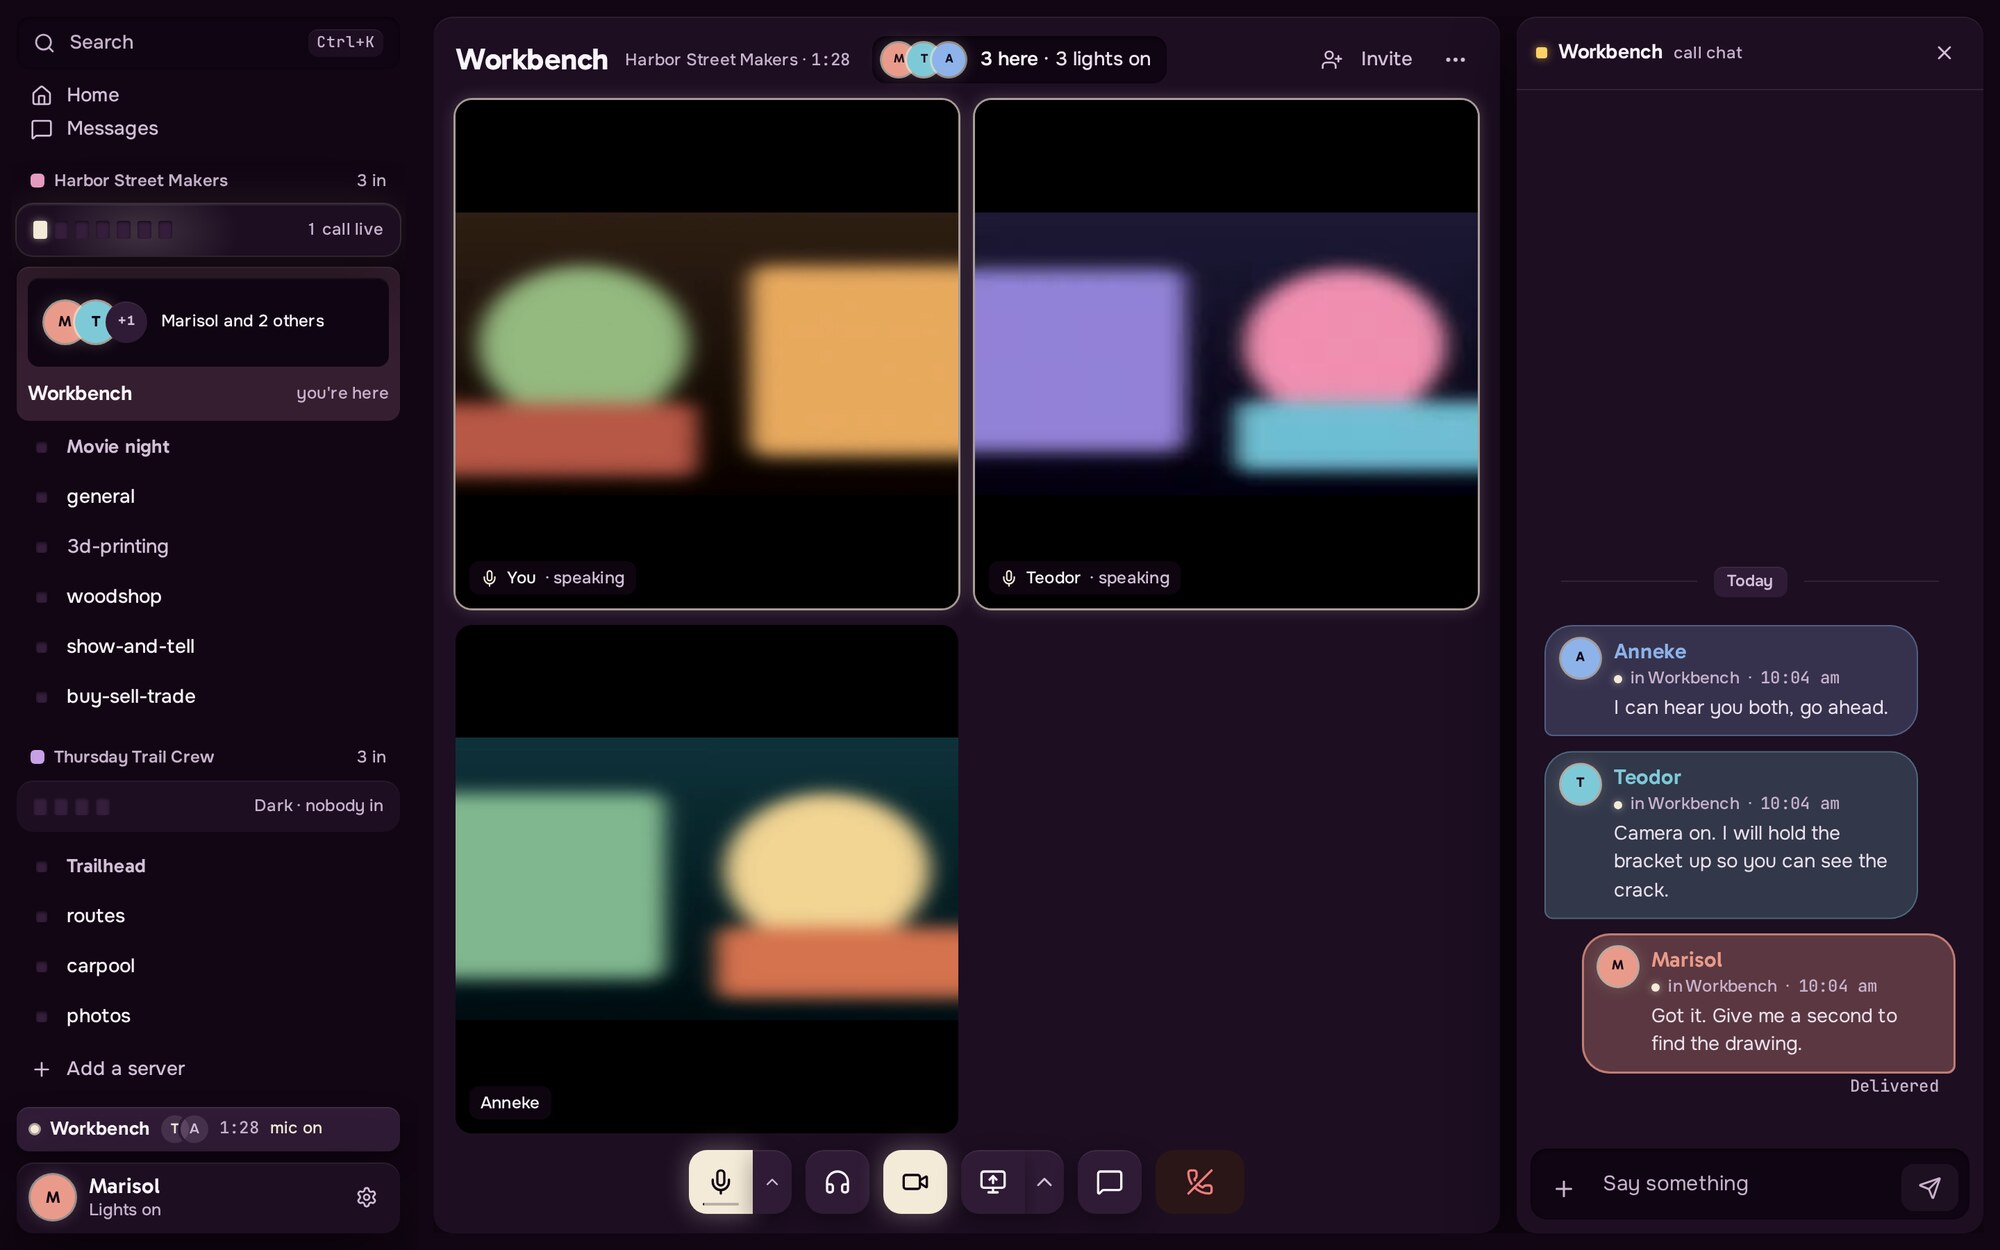
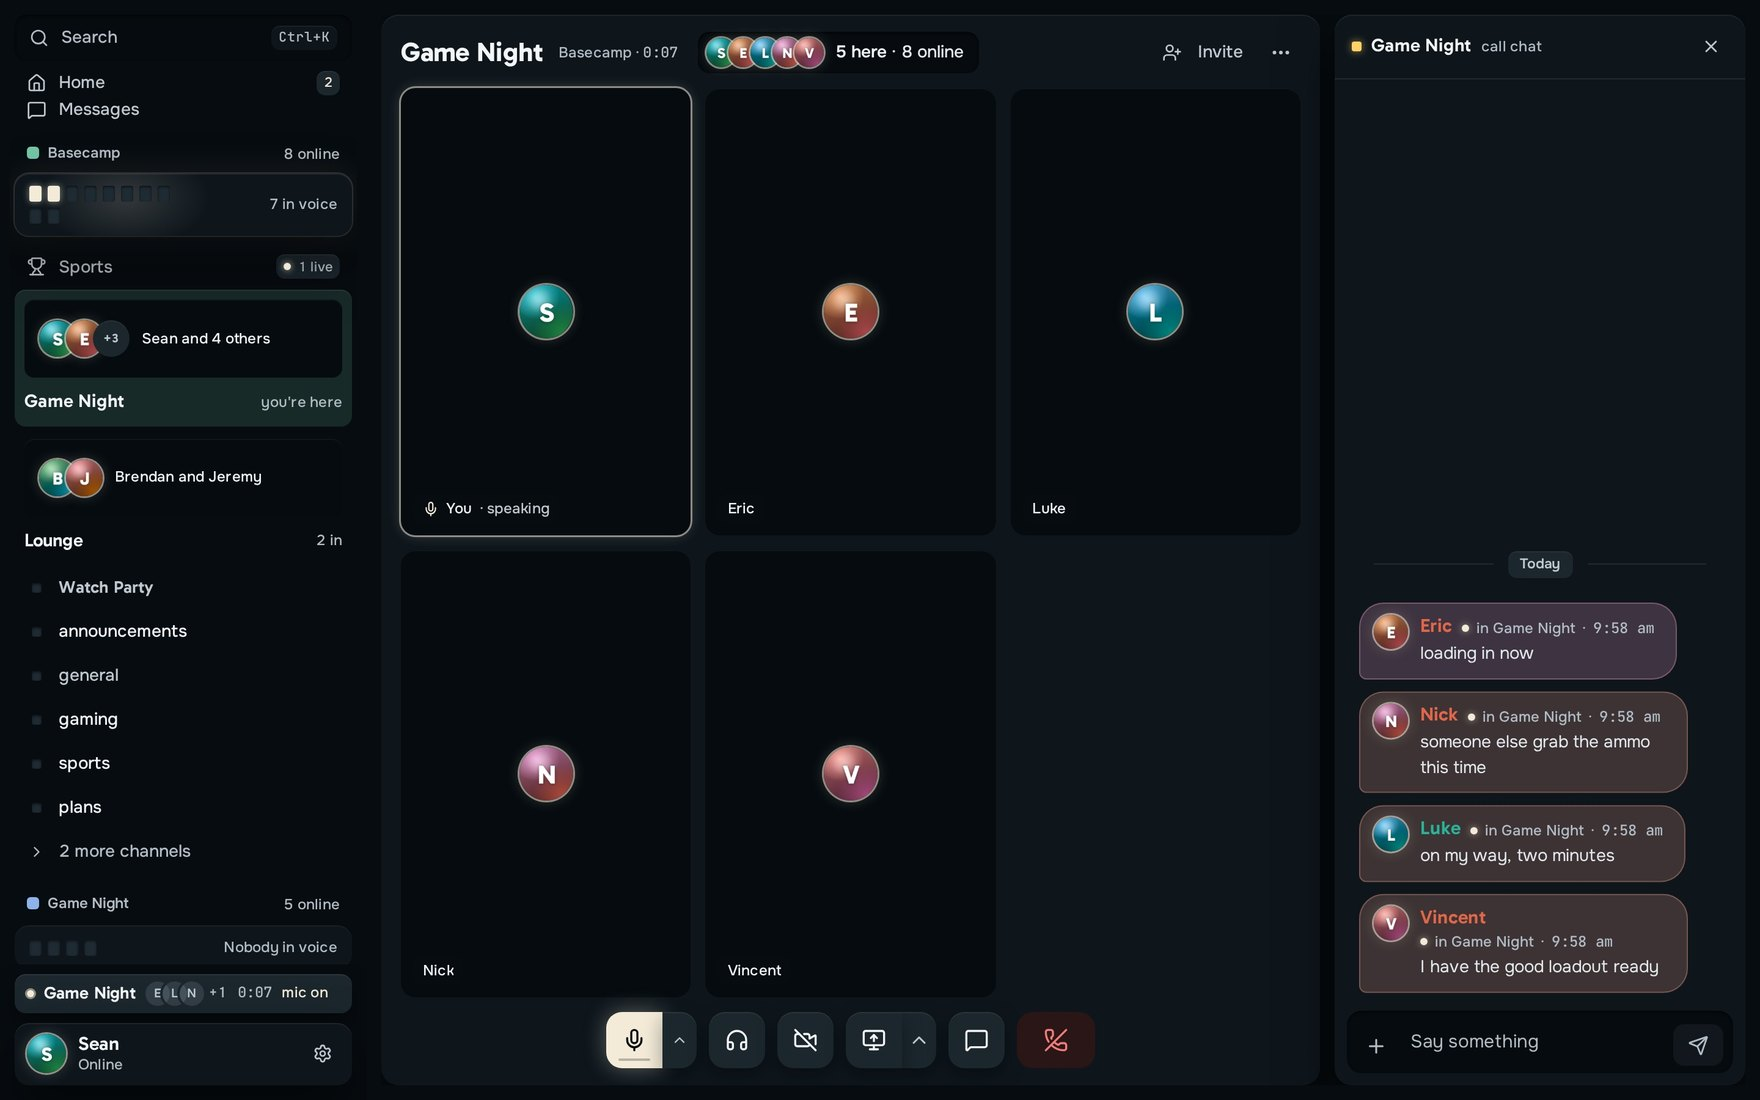
docs(readme): rewritten around the new server home, with fresh screenshots and the animated mark
Every screenshot is new, taken from the real app on a server of eight friends:
the front page, a channel, Home, a call, Sports, search, who reacted, media, both
phone views, three looks, and the setup, invite and join screens. The top image
is the lantern mark lighting up. The feature list covers what 3.2 adds, and the
'looks empty when quiet' caveat is gone.

diff --git a/README.md b/README.md
@@ -1,5 +1,5 @@
 <p align="center">
-  <img src="docs/images/brand/banner.png" alt="Paracord: a lantern on a braided cord, and the name" width="760"/>
+  <img src="docs/images/brand/paracord.webp" alt="The Paracord mark: a lantern on a braided cord handle lights up above the name Paracord" width="520"/>
 </p>
 
 <p align="center">
@@ -7,14 +7,15 @@
 </p>
 
 <p align="center">
-  <a href="../../releases/latest"><img src="https://img.shields.io/github/v/release/Scdouglas1999/Paracord?label=release&color=24b78b" alt="Latest release"/></a>
-  <img src="https://img.shields.io/badge/desktop-Windows%20%7C%20Linux%20%7C%20macOS-17221b" alt="Desktop app for Windows, Linux and macOS"/>
-  <a href="LICENSE"><img src="https://img.shields.io/badge/license-source--available-315f4b" alt="Source-available license"/></a>
+  <a href="../../releases/latest"><img src="https://img.shields.io/github/v/release/Scdouglas1999/Paracord?label=release&color=2bb39a" alt="Latest release"/></a>
+  <img src="https://img.shields.io/badge/desktop-Windows%20%7C%20Linux%20%7C%20macOS-1b232b" alt="Desktop app for Windows, Linux and macOS"/>
+  <a href="LICENSE"><img src="https://img.shields.io/badge/license-source--available-2f3b46" alt="Source-available license"/></a>
 </p>
 
 <p align="center">
   <a href="../../releases/latest">Download</a> ·
   <a href="#getting-started">Getting started</a> ·
+  <a href="#a-look-around">A look around</a> ·
   <a href="#whats-in-it">What's in it</a> ·
   <a href="#running-it">Running it</a> ·
   <a href="#development">Development</a> ·
@@ -22,32 +23,29 @@
 </p>
 
 <p align="center">
-  Current release: <strong>v3.1.1</strong> — <a href="RELEASE_NOTES.md">what changed</a>
+  Current release: <strong>v3.1.1</strong> — <a href="RELEASE_NOTES.md">what changed</a>.
+  The screenshots below are from <strong>3.2</strong>, which is in final testing and out soon.
 </p>
 
 ---
 
-![A text channel with several people talking. Each message sits in a bubble tinted with its author's colour, and your own messages are on the right.](docs/images/readme/hero.jpg)
+![Basecamp's front page: a banner of mountains at dusk, the server's name, eight people online, a Live now row with two voice channels and a baseball game, a column of upcoming events and recent photos, and a feed of what people shared.](docs/images/readme/server.jpg)
 
-Paracord looks and works about how you'd expect from Discord: servers, text channels,
-voice channels, direct messages, roles, moderation. The difference is that there is no
-company in the middle. Somebody in your group runs the Paracord server on a computer
-that stays on, and everyone else joins it with a link.
+Paracord works about how you'd expect from Discord: servers, text and voice channels,
+direct messages, roles, moderation. The difference is that there's no company in the
+middle. Somebody in your group runs the Paracord server on a computer that stays on, and
+everyone else joins with a link.
 
 Setting that up is one command. It downloads Paracord, sets it to start by itself, asks
-your router to let people in, and opens a link in your browser where you make your
-account and name your server. Friends open an invite link in any browser, or install the
-desktop app for Windows, Linux or macOS.
+your router to let people in, and opens a link in your browser where you make your account
+and name your server. Friends open an invite link in any browser, or install the desktop
+app for Windows, Linux or macOS.
 
-Inside a server you get text channels with replies, threads, reactions, polls,
-attachments and code that arrives readable, plus voice channels with video and screen
-sharing. Direct messages and group messages are encrypted end to end. There are roles and
-permissions, automatic moderation, bots and webhooks, and an optional link between two
-Paracord servers so their members can talk. The voice and video are Paracord's own code,
-so there is no third-party media service to sign up for.
+Direct messages and group messages are encrypted end to end. Voice and video run on
+Paracord's own code, so there's no third-party media service to sign up for.
 
 It suits a group that has somebody willing to keep a machine on and read a docs page when
-something breaks. Nobody is hosting this for you, and it is a young project, so the
+something breaks. Nobody is hosting this for you, and it's a young project, so the
 [things that don't work yet](#good-to-know) are worth reading before you move a community
 onto it.
 
@@ -162,35 +160,52 @@ a domain name, PostgreSQL and backups see [Deployment](docs/deployment.md).
 
 ## A look around
 
-| | |
-| :--- | :--- |
-| ![Home, showing who is online, the servers you belong to, and the conversation you were last in.](docs/images/readme/home.jpg) | ![A server's front page, listing its voice channels with the people currently in them, and its text channels below.](docs/images/readme/server.jpg) |
-| Home opens on people and conversations: who's around, your servers, and where you left off. | A server's front page. Voice channels show who is in them before you join. |
+Every picture here is the real app, running on a server with eight friends in it.
+
+**A server's front page.** Walk into a server and see who's in voice, what's coming up,
+and what people have been sharing: photos, polls you can vote in right there, new forum
+questions, the latest announcement. When it's quiet, the page is still full of what
+people made, not a list of empty channels.
 
 | | |
 | :--- | :--- |
-| ![A voice call with three video tiles, a row of controls for microphone, camera and screen sharing, and the call's chat at the side.](docs/images/readme/call.jpg) | ![An encrypted group conversation, with a note in the header saying the messages are end-to-end encrypted.](docs/images/readme/dm.jpg) |
-| A call with three people on camera. The pictures in the tiles are test patterns, not webcams; the call itself is real. | Direct messages and group messages are encrypted end to end, attachments included. |
+| ![A photos channel. Each message sits in a bubble tinted with its author's colour, with a campfire photo and a desk setup.](docs/images/readme/hero.jpg) | ![Home: a greeting, who is around, your three servers with who is in voice, and the conversations you were last in.](docs/images/readme/home.jpg) |
+| Every message wears its author's colour. | Home: who's around, your servers, and where you left off. |
+| ![A voice call with five people. One tile is outlined because that person is talking, and the call's own chat runs down the side.](docs/images/readme/call.jpg) | ![The Sports page for a live baseball game: the score by inning, win probability, the batter and pitcher, and the field with runners on base.](docs/images/readme/sports.jpg) |
+| Voice channels with video, screen sharing and a chat of their own. | Sports: follow a game together, live. |
 
-It works at phone width too.
+**Search a whole server.** Type `from:`, `in:`, `has:image` or `before:` and they turn into
+filters as you go. Results are grouped by channel, and Enter jumps to the message.
+
+![The search panel on the right with two filter chips, from Brendan and has image, and one result: Brendan's summit photo in the photos channel.](docs/images/readme/search.jpg)
+
+| | |
+| :--- | :--- |
+| ![Hovering a reaction on a mountain photo shows a small card listing the three people who reacted.](docs/images/readme/reactions.jpg) | ![The server's Media panel: photos from every channel, grouped by month, beside the server's front page.](docs/images/readme/media.jpg) |
+| See who reacted, and have Paracord remind you about a message later. | Every photo, file and link a server has shared, in one place. |
+
+It's built for phones too.
 
 <p align="center">
-  <img src="docs/images/readme/phone-home.jpg" alt="Home on a phone-width screen, listing people and servers in a single column." width="300"/> <img src="docs/images/readme/phone-channel.jpg" alt="A text channel on a phone-width screen, with the composer at the bottom." width="300"/>
+  <img src="docs/images/readme/phone-server.jpg" alt="Basecamp's front page on a phone: the banner, the server's name, and two live voice channels." width="300"/> <img src="docs/images/readme/phone-channel.jpg" alt="The photos channel on a phone, with a campfire photo and the message box at the bottom." width="300"/>
 </p>
 
 ## What's in it
 
-**Talking.** Text channels, announcement channels, forums and threads. Replies, mentions,
-reactions, pins and saved messages. Markdown, syntax-highlighted code, attachments, image
-previews and link embeds. Polls, scheduled messages, slash commands, GIFs, stickers and
-custom emoji. Search, an inbox, unread counts and per-channel notification settings.
+**Talking.** Text channels, announcement channels, forums and threads. Replies, mentions
+(of people and roles), reactions with who reacted, pins, saved messages and reminders.
+Forward a message to up to five places with a note. Markdown, syntax-highlighted code,
+attachments, image previews and link embeds. Polls, scheduled messages, slash commands,
+GIFs, stickers and custom emoji. Search across a whole server with filters, an inbox,
+unread counts and per-channel notification settings.
+
+**A front page for every server.** A banner, who's around, what's live, what's coming up,
+and a feed of what people shared. Owners choose which panels show and in what order.
 
 **Voice, video and screen sharing.** Voice channels, video grids, screen sharing and device
 controls, over Paracord's own QUIC transport: raw QUIC in the desktop app, WebTransport in
 the browser. Opus audio with RNNoise noise suppression, VP9 video, speaker detection, and
-media frames the relay cannot read. A LiveKit path is still in the codebase for anyone who
-specifically wants a WebRTC SFU, but it is not the route that gets tested and it needs a
-LiveKit server of its own.
+media frames the relay cannot read.
 
 **Direct messages.** One-to-one and group conversations, encrypted end to end. Text and
 attachments are both encrypted on your device, so the server stores files it cannot read and
@@ -206,12 +221,16 @@ the server can and cannot see in each case.
 
 **Running a community.** Roles and fine-grained permissions. Invites, discovery, templates,
 welcome screens and member onboarding. Bans, reports, moderation templates and audit logs.
-Events, custom emoji, storage limits, and a community economy if you want one. Automatic
-moderation covers keywords, patterns, links, invites, mention floods and spam, with block,
-timeout and moderator-alert actions ([AutoMod](docs/automod.md) has the details). A
-server can follow games and post the score into a channel ([Sports](docs/sports.md)). There's
-also a health page that reports backups, database size, transport security and capacity, and
-says what to fix.
+Events with RSVP, banners, custom emoji and stickers, storage limits, and a community
+economy if you want one. Automatic moderation covers keywords, patterns, links, invites,
+mention floods and spam, with block, timeout and moderator-alert actions
+([AutoMod](docs/automod.md) has the details). There's also a health page that reports
+backups, database size, transport security and capacity, and says what to fix.
+
+**Sports.** A server can follow leagues and teams: live scores, standings, a game page with
+the field or the diamond, and games pinned above a channel that post each score as it
+happens. The server fetches scores from ESPN's public scoreboard, so your members' devices
+never talk to ESPN. See [Sports](docs/sports.md).
 
 **Bots and other servers.** Bot applications with slash commands and interaction components,
 webhooks, and a [bot SDK](packages/paracord-bot-sdk). One client can connect to several
@@ -221,30 +240,18 @@ switch to flip, so read [Federation Protocol](docs/federation-protocol.md) first
 
 ### Looks and themes
 
-There are four themes (Night, Daylight, AMOLED and High contrast), and you can set their
-base colour and accent to any hue you like without the text becoming unreadable. On top of
-those are three looks, each of which brings a whole palette of its own:
+**Slate** is the default: a cool charcoal where every message sits in its author's colour.
+Settings → Appearance switches instantly between it and the other looks: **Dusk sky** (a
+sunset behind dark glass), **Paper & ink** (a light, printed look) and **Aubergine**, plus
+four themes whose base colour and accent you can set to any hue without the text becoming
+unreadable (Night, Daylight, AMOLED and High contrast).
 
-- **Voices**, the default, puts every message in a bubble tinted with its author's colour,
-  with your own on the right.
-- **Dusk sky** puts a sunset behind the app, with dark glass panels over it.
-- **Paper & ink** is a light look: cream paper, dark ink, hard printed-style shadows.
+The same channel in three of them:
 
-A look supplies its own colours, so the base and accent pickers switch off while one is on;
-pick any of the four themes to get them back. Looks switch instantly and the colour changes
-as you drag. Names in chat are written in each person's own colour throughout, and the
-Friends list uses the same colours.
-
-The same channel in each:
-
-| | |
-| :--- | :--- |
-| ![A text channel in Voices: message bubbles tinted by author on a dark aubergine background.](docs/images/readme/hero.jpg) | ![The same channel in Dusk sky: a sunset gradient behind dark glass panels.](docs/images/readme/look-dusk.jpg) |
-| Voices | Dusk sky |
-| ![The same channel in Paper & ink: cream background, dark text, a solid blue sidebar.](docs/images/readme/look-paper.jpg) | ![The same channel in Night: warm dark panels beside a deep blue sidebar.](docs/images/readme/look-night.jpg) |
-| Paper & ink | Night |
-
-<p align="center"><img src="docs/images/readme/appearance.jpg" alt="Settings, Appearance: the four themes, the three looks, and pickers for base colour, accent and motion." width="880"/></p>
+| | | |
+| :---: | :---: | :---: |
+| ![The photos channel in Paper and ink: cream background, dark text, a solid blue sidebar.](docs/images/readme/look-paper.jpg) | ![The photos channel in Dusk sky: a purple-to-rose sunset behind dark glass panels.](docs/images/readme/look-dusk.jpg) | ![The photos channel in Night: warm dark panels beside a deep blue sidebar.](docs/images/readme/look-night.jpg) |
+| Paper & ink | Dusk sky | Night |
 
 ## Good to know
 
@@ -264,8 +271,8 @@ lives in [known limitations](docs/known-limitations.md) and in the release notes
   with each release, which isn't set up. Download the new version when there is one; for
   the server, re-run the install command.
 - macOS builds are unsigned unless a Developer ID is configured, so the first launch needs
-  right-click → Open. These packages are new in this release and were built by CI rather
-  than run by hand, so expect rough edges. macOS system-audio capture isn't implemented, so
+  right-click → Open. The macOS packages are built by CI rather than run by hand, so
+  expect rough edges. macOS system-audio capture isn't implemented, so
   a screen share from a Mac carries no system sound.
 - Linux screen sharing works but leans on your desktop's PipeWire and portal setup, so try
   it before you need it.
@@ -275,15 +282,13 @@ lives in [known limitations](docs/known-limitations.md) and in the release notes
   affected. The AppImage is a separate problem and is still broken there, so install the
   `.deb` or build from source. `PARACORD_WEBKIT_ACCELERATION=ondemand` overrides the choice
   if your driver has since been fixed.
-- The Windows installer was rewritten for this release and has been checked by tools but
-  not run by hand on a Windows machine. If it misbehaves, download `install.ps1` and run it
+- The Windows installer has been checked by tools but not run by hand on a Windows
+  machine. If it misbehaves, download `install.ps1` and run it
   with `powershell -ExecutionPolicy Bypass -File .\install.ps1`.
 - After a long time away the desktop app sometimes opens as "Unknown user" with no servers,
   instead of taking you to the sign-in screen. Open Settings, log out, and sign in again.
 - There is no way to publish a bot to the bot store, so it is empty. A bot can only be
   installed by whoever made it.
-- Home and a server's front page look empty when a server is quiet. That's a layout job for
-  a later release.
 
 ## Running it
 
@@ -424,7 +429,7 @@ cannot read the relocation sections a modern linker emits.
 | [Bot Development](docs/bot-development.md) | bots, commands, interactions, webhooks |
 | [Federation Protocol](docs/federation-protocol.md) | signed requests between servers and the trust model |
 | [Backup Recovery](docs/backup-recovery.md) | restoring an archive, and what it can't restore |
-| [Release Notes](RELEASE_NOTES.md) | what changed in v3.1.0 |
+| [Release Notes](RELEASE_NOTES.md) | what changed in each release |
 
 ## Licence and contributing
 
